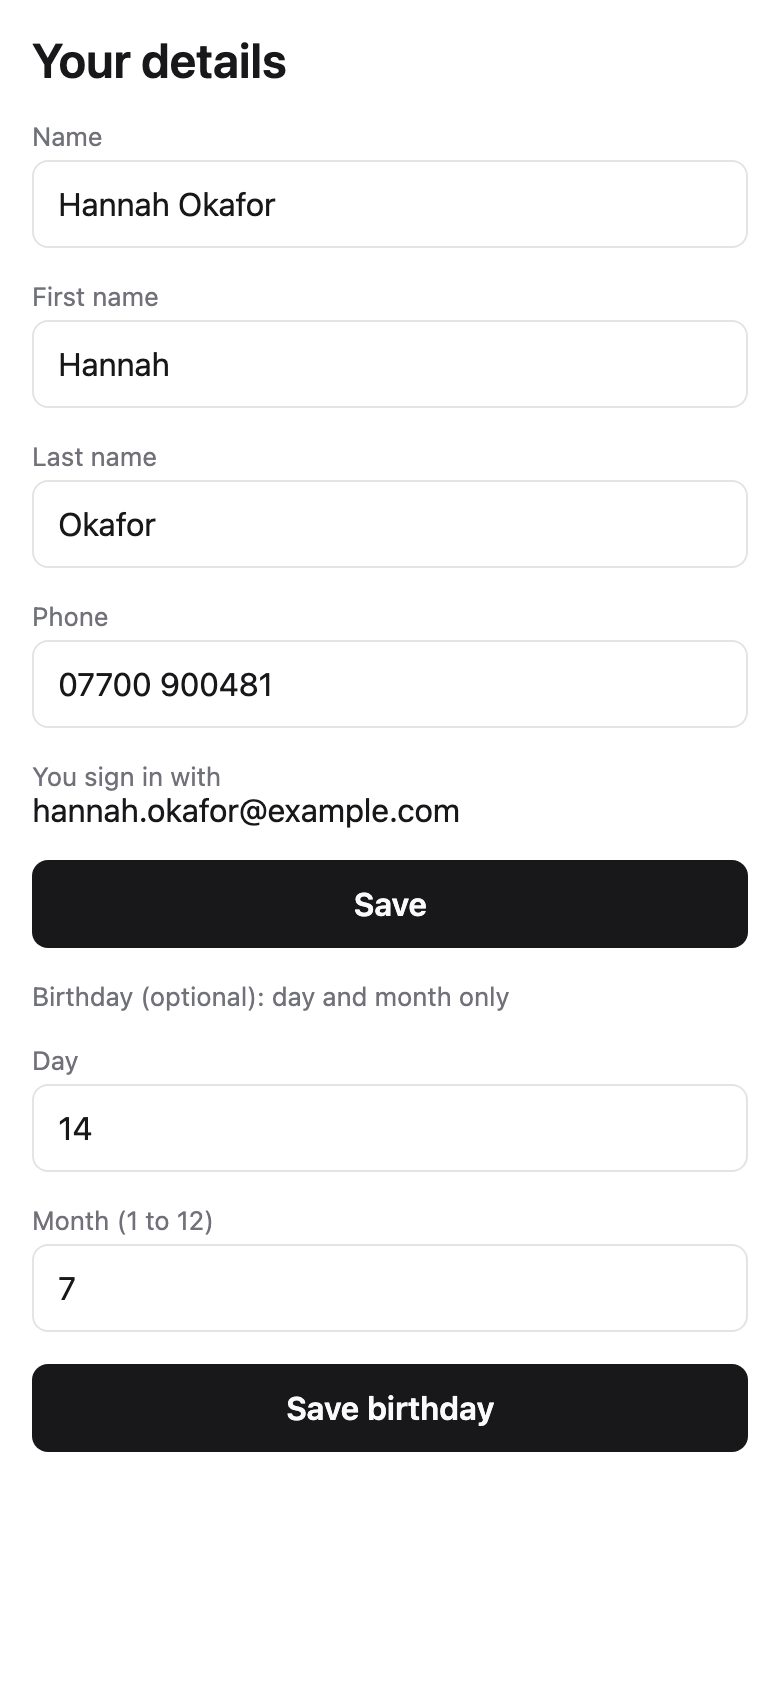
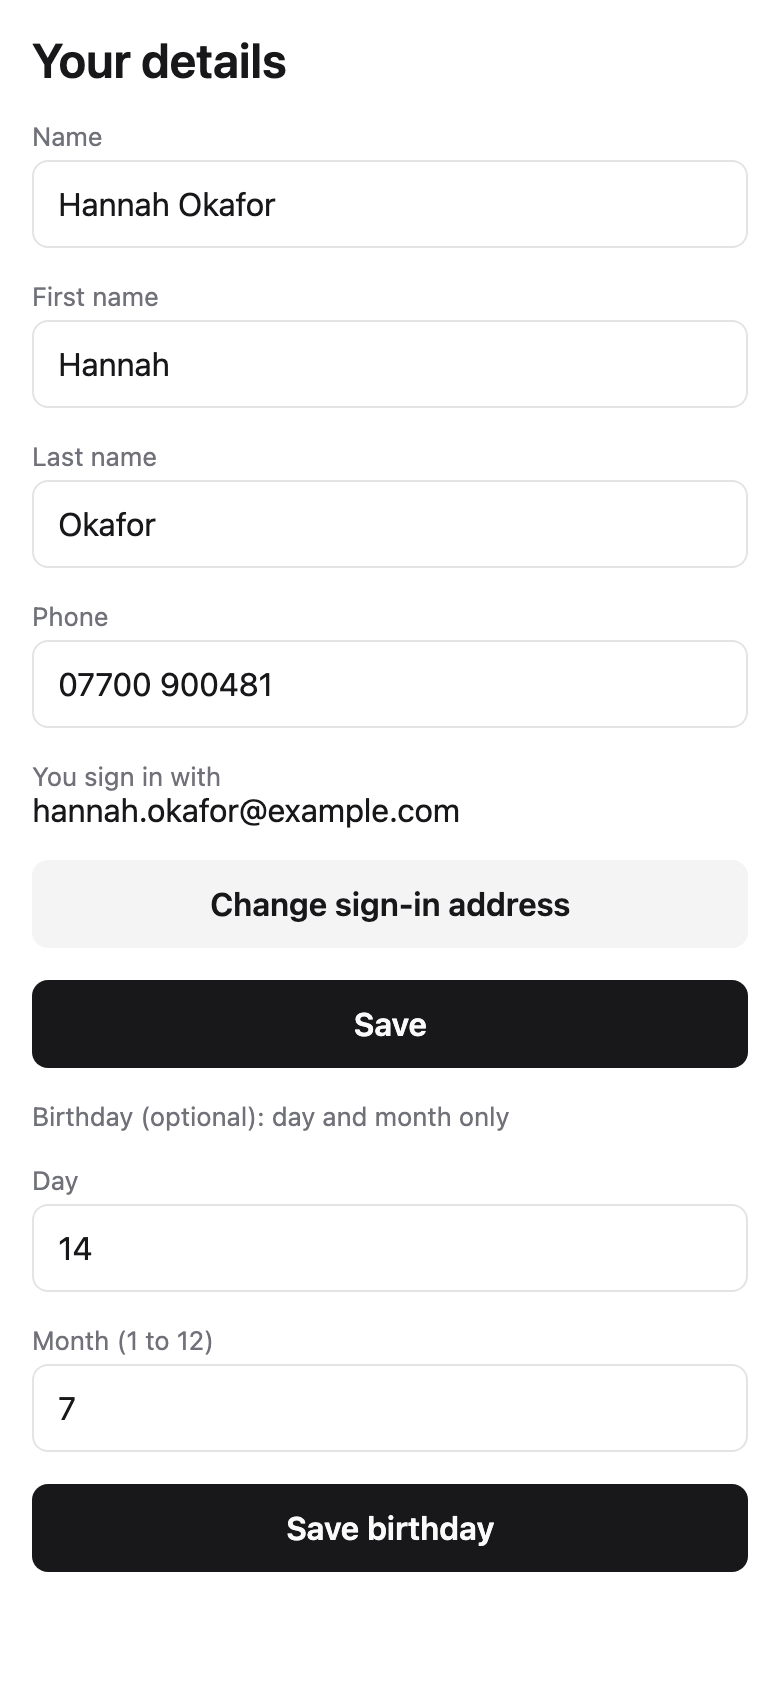
Block pictures: the attention, change-address and delete blocks, and the account blocks drawn again

Changed region(s): [[0.0308, 0.4929, 0.9846, 0.955]]

diff --git a/apps/screens/previews/data/account.ts b/apps/screens/previews/data/account.ts
@@ -14,6 +14,7 @@ import {
   type AgreementVersion,
   createAccountHooks,
   createAgreementsHooks,
+  type DeletePreview,
   type MyRecord,
 } from "@composable-os/client";
 import {
@@ -127,6 +128,7 @@ export const portal: AccountPortal = {
       web: null,
       native: null,
     },
+    { key: "delete", pack: null, label: "Delete my account", order: 99, web: null, native: null },
   ],
 };
 
@@ -612,6 +614,96 @@ export const memberships: {
   },
 };
 
+// --- Needs your attention (stage 48 step 7): `me.attention` -------------------------------------------
+
+export const attention: Out<"me.attention"> = {
+  days: 7,
+  items: [
+    {
+      key: "agree:agreement:agr_waiver:per_leo",
+      kind: "agree",
+      person: { id: LEO, name: "Leo Okafor", self: false },
+      record: { object: "agreement", id: "agr_waiver", title: "Junior classes waiver" },
+      at: at("08:00", "2026-03-01"),
+      amount: null,
+      currency: null,
+      usesLeft: null,
+      link: null,
+    },
+    {
+      key: "balance_due:order:ord_camp:per_hannah",
+      kind: "balance_due",
+      person: { id: HANNAH, name: "Hannah Okafor", self: true },
+      record: { object: "order", id: "ord_camp", title: "Easter climbing camp" },
+      at: at("00:00", "2026-03-06"),
+      amount: 9000,
+      currency: "GBP",
+      usesLeft: null,
+      link: null,
+    },
+    {
+      key: "pass_expiring:memberships.pass:pas_ten:per_hannah",
+      kind: "pass_expiring",
+      person: { id: HANNAH, name: "Hannah Okafor", self: true },
+      record: { object: "memberships.pass", id: "pas_ten", title: "Ten-class pass" },
+      at: at("23:59", "2026-03-07"),
+      amount: null,
+      currency: null,
+      usesLeft: 3,
+      link: null,
+    },
+    {
+      key: "trial_ending:subscription:sub_mobility:per_hannah",
+      kind: "trial_ending",
+      person: { id: HANNAH, name: "Hannah Okafor", self: true },
+      record: { object: "subscription", id: "sub_mobility", title: "Mobility at home" },
+      at: at("00:00", "2026-03-08"),
+      amount: 1200,
+      currency: "GBP",
+      usesLeft: null,
+      link: null,
+    },
+  ],
+};
+
+// --- Deleting the account (stage 48 step 7): `me.deleteAccount`'s preview ------------------------------
+
+export const deletePreview: DeletePreview = {
+  deleted: false,
+  subscriptions: [
+    {
+      id: "sub_unlimited",
+      title: "Unlimited membership",
+      amount: 6500,
+      currency: "GBP",
+      interval: "month",
+      endsAt: "2026-03-28T00:00:00.000Z",
+      ending: "period_end",
+    },
+  ],
+  orders: [
+    {
+      id: "ord_dropin",
+      total: 1200,
+      currency: "GBP",
+      createdAt: at("08:40"),
+      lines: ["Drop-in: Saturday bouldering"],
+    },
+  ],
+  leftForStaff: {
+    records: [
+      { object: "bookings.booking", label: "Bookings", count: 2 },
+      { object: "ticketing.ticket", label: "Tickets", count: 1 },
+    ],
+    partPaidOrders: 1,
+    moreUnpaidOrders: 0,
+    subscriptions: [],
+    dependantsWithoutGuardian: 0,
+  },
+  eraseDueAt: "2026-04-01T00:00:00.000Z",
+  expect: "preview-fingerprint",
+};
+
 // --- The hooks, as a client app makes them -----------------------------------------------------------
 
 /** The account hooks over a fake client answering every base section's call. */
@@ -620,6 +712,9 @@ export function accountHooks(current: "browser" | "device") {
     react,
     fakeClient<AccountOperations>(ACCOUNT_HOOKS_CALL, {
       "me.portal": portal,
+      "me.attention": attention,
+      "me.deleteAccount": deletePreview,
+      "me.email.change": { newEmail: "hannah@okafor.example.com", expiresAt: at("09:45") },
       "me.get": me,
       "me.birthday.get": birthday,
       "me.sessions.list": sessions(current),
@@ -644,8 +739,18 @@ export function agreementsHooks() {
 
 /** The client the Memberships pack's section is given (its hooks are made by `usePackSections`). */
 export const membershipsClient = fakeClient<MembershipsOperations>(MEMBERSHIPS_HOOKS_CALL, {
-  "x.memberships.mine": memberships.mine,
+  // Hannah's own, Leo's class pack, and nothing of Maya's.
+  "x.memberships.mine": (input: { personId?: string }) =>
+    input.personId === LEO
+      ? { holdings: memberships.mine.holdings.filter((h) => h.kind === "pass") }
+      : input.personId
+        ? { holdings: [] }
+        : memberships.mine,
   "x.memberships.plans": memberships.plans,
+  "me.family": family,
   "subscription.list": memberships.subscriptions,
   "subscription.coolingOff": memberships.coolingOff,
 });
+
+/** The app's sign-in, never asked for in a picture: the host answered without `sign_in_again`. */
+export const signIn = { requestCode: async () => true, confirm: async () => true };

diff --git a/apps/screens/previews/memberships-mine.tsx b/apps/screens/previews/memberships-mine.tsx
@@ -5,12 +5,13 @@ import {
 } from "@composable-os/pack-memberships/client";
 import { MyMemberships } from "../../../packs/memberships/blocks/memberships-mine/mine.tsx";
 import { fakeClient, react } from "../src/fake.ts";
-import { coolingOff, mine, plans, subscriptions } from "./data/memberships.ts";
+import { coolingOff, family, mineFor, plans, subscriptions } from "./data/memberships.ts";
 
 const memberships = createMembershipsHooks(
   react,
   fakeClient<MembershipsOperations>(MEMBERSHIPS_HOOKS_CALL, {
-    "x.memberships.mine": mine,
+    "x.memberships.mine": mineFor,
+    "me.family": family,
     "x.memberships.plans": plans,
     "subscription.list": subscriptions,
     "subscription.coolingOff": coolingOff,
@@ -20,5 +21,5 @@ const memberships = createMembershipsHooks(
 export const width = 720;
 
 export default function Preview() {
-  return <MyMemberships memberships={memberships} returnUrl="https://studio.example.com/account" />;
+  return <MyMemberships memberships={memberships} />;
 }

diff --git a/apps/screens/previews/data/memberships.ts b/apps/screens/previews/data/memberships.ts
@@ -168,6 +168,18 @@ const guestPass: Holding = {
 
 export const mine: Out<"x.memberships.mine"> = { holdings: [membership, tenPack] };
 
+/** The member and the child the gym linked to them (`me.family`, stage 48). */
+export const family: Out<"me.family"> = {
+  self: { personId: "p_10", name: "Rachel Moore" },
+  dependants: [{ personId: "p_11", name: "Leo Moore" }],
+  guardians: [],
+};
+
+/** What the member holds, or (with the child's id) what the child holds: a pass. */
+export function mineFor(input: { personId?: string }): Out<"x.memberships.mine"> {
+  return input.personId === "p_11" ? { holdings: [{ ...tenPack, id: "pas_leo" }] } : mine;
+}
+
 export const staffHoldings: Out<"x.memberships.holdings"> = {
   holdings: [membership, guestPass, tenPack, introWeek],
 };

diff --git a/apps/screens/previews/native-account.tsx b/apps/screens/previews/native-account.tsx
@@ -6,7 +6,7 @@ import {
 } from "../../../blocks/native-account/account-screen.tsx";
 import { MyMembershipsScreen } from "../../../packs/memberships/blocks/memberships-native-mine/mine-screen.tsx";
 import { react } from "../src/fake.ts";
-import { accountHooks, agreementsHooks, membershipsClient } from "./data/account.ts";
+import { accountHooks, agreementsHooks, membershipsClient, signIn } from "./data/account.ts";
 
 const account = accountHooks("device");
 const agreements = agreementsHooks();
@@ -31,7 +31,9 @@ export default function Preview() {
       agreements={agreements}
       sections={sections}
       websiteUrl="https://www.example.com/account"
+      signIn={signIn}
       onSignOut={() => {}}
+      onDeleted={() => {}}
       openUrl={() => {}}
     />
   );

diff --git a/apps/screens/previews/web-account.tsx b/apps/screens/previews/web-account.tsx
@@ -6,7 +6,7 @@ import {
 } from "../../../blocks/web-account/account.tsx";
 import { MyMemberships } from "../../../packs/memberships/blocks/memberships-mine/mine.tsx";
 import { react } from "../src/fake.ts";
-import { accountHooks, agreementsHooks, membershipsClient } from "./data/account.ts";
+import { accountHooks, agreementsHooks, membershipsClient, signIn } from "./data/account.ts";
 
 const account = accountHooks("browser");
 const agreements = agreementsHooks();
@@ -32,7 +32,9 @@ export default function Preview() {
       agreements={agreements}
       sections={sections}
       returnUrl={returnUrl}
+      signIn={signIn}
       onSignOut={() => {}}
+      onDeleted={() => {}}
     />
   );
 }

diff --git a/apps/screens/previews/memberships-native-mine.tsx b/apps/screens/previews/memberships-native-mine.tsx
@@ -5,12 +5,13 @@ import {
 } from "@composable-os/pack-memberships/client";
 import { MyMembershipsScreen } from "../../../packs/memberships/blocks/memberships-native-mine/mine-screen.tsx";
 import { fakeClient, react } from "../src/fake.ts";
-import { coolingOff, mine, subscriptions } from "./data/memberships.ts";
+import { coolingOff, family, mineFor, subscriptions } from "./data/memberships.ts";
 
 const memberships = createMembershipsHooks(
   react,
   fakeClient<MembershipsOperations>(MEMBERSHIPS_HOOKS_CALL, {
-    "x.memberships.mine": mine,
+    "x.memberships.mine": mineFor,
+    "me.family": family,
     "subscription.list": subscriptions,
     "subscription.coolingOff": coolingOff,
   }),

diff --git a/apps/screens/previews/native-account-email.tsx b/apps/screens/previews/native-account-email.tsx
@@ -1,0 +1,17 @@
+import { ChangeSignInAddress } from "../../../blocks/native-account-email/email.tsx";
+import { Screen } from "../../../blocks/native-base/screen.tsx";
+import { accountHooks, signIn } from "./data/account.ts";
+
+const account = accountHooks("device");
+
+// The form that asks for a code at the new address.
+export const click = "Change sign-in address";
+export const fill = [["New sign-in address", "hannah@okafor.example.com"]];
+
+export default function Preview() {
+  return (
+    <Screen title="Your details">
+      <ChangeSignInAddress account={account} signIn={signIn} />
+    </Screen>
+  );
+}

diff --git a/apps/screens/previews/native-account-delete.tsx b/apps/screens/previews/native-account-delete.tsx
@@ -1,0 +1,16 @@
+import { DeleteAccount } from "../../../blocks/native-account-delete/delete.tsx";
+import { Screen } from "../../../blocks/native-base/screen.tsx";
+import { accountHooks, signIn } from "./data/account.ts";
+
+const account = accountHooks("device");
+
+// The host's preview, shown in full before the confirmation.
+export const click = "See what deleting my account does";
+
+export default function Preview() {
+  return (
+    <Screen title="Delete my account">
+      <DeleteAccount account={account} signIn={signIn} onDeleted={() => {}} />
+    </Screen>
+  );
+}

diff --git a/apps/screens/previews/native-account-details.tsx b/apps/screens/previews/native-account-details.tsx
@@ -1,6 +1,6 @@
 import { YourDetails } from "../../../blocks/native-account-details/details.tsx";
 import { Screen } from "../../../blocks/native-base/screen.tsx";
-import { accountHooks } from "./data/account.ts";
+import { accountHooks, signIn } from "./data/account.ts";
 
 const account = accountHooks("device");
 
@@ -8,7 +8,7 @@ const account = accountHooks("device");
 export default function Preview() {
   return (
     <Screen title="Your details">
-      <YourDetails account={account} />
+      <YourDetails account={account} signIn={signIn} />
     </Screen>
   );
 }

diff --git a/apps/screens/previews/native-account-attention.tsx b/apps/screens/previews/native-account-attention.tsx
@@ -1,0 +1,18 @@
+import { NeedsAttention } from "../../../blocks/native-account-attention/attention.tsx";
+import { Screen } from "../../../blocks/native-base/screen.tsx";
+import { accountHooks, portal } from "./data/account.ts";
+
+const account = accountHooks("device");
+
+export default function Preview() {
+  return (
+    <Screen title="My account">
+      <NeedsAttention
+        account={account}
+        sections={portal.sections}
+        onSection={() => {}}
+        onManage={() => {}}
+      />
+    </Screen>
+  );
+}

diff --git a/apps/screens/previews/web-account-email.tsx b/apps/screens/previews/web-account-email.tsx
@@ -1,0 +1,13 @@
+import { ChangeSignInAddress } from "../../../blocks/web-account-email/email.tsx";
+import { accountHooks, signIn } from "./data/account.ts";
+
+const account = accountHooks("browser");
+
+export const width = 720;
+// The form that asks for a code at the new address.
+export const click = "Change sign-in address";
+export const fill = [["New sign-in address", "hannah@okafor.example.com"]];
+
+export default function Preview() {
+  return <ChangeSignInAddress account={account} signIn={signIn} />;
+}

diff --git a/apps/screens/previews/web-account-delete.tsx b/apps/screens/previews/web-account-delete.tsx
@@ -1,0 +1,12 @@
+import { DeleteAccount } from "../../../blocks/web-account-delete/delete.tsx";
+import { accountHooks, signIn } from "./data/account.ts";
+
+const account = accountHooks("browser");
+
+export const width = 720;
+// The host's preview, shown in full before the confirmation.
+export const click = "See what deleting my account does";
+
+export default function Preview() {
+  return <DeleteAccount account={account} signIn={signIn} onDeleted={() => {}} />;
+}
